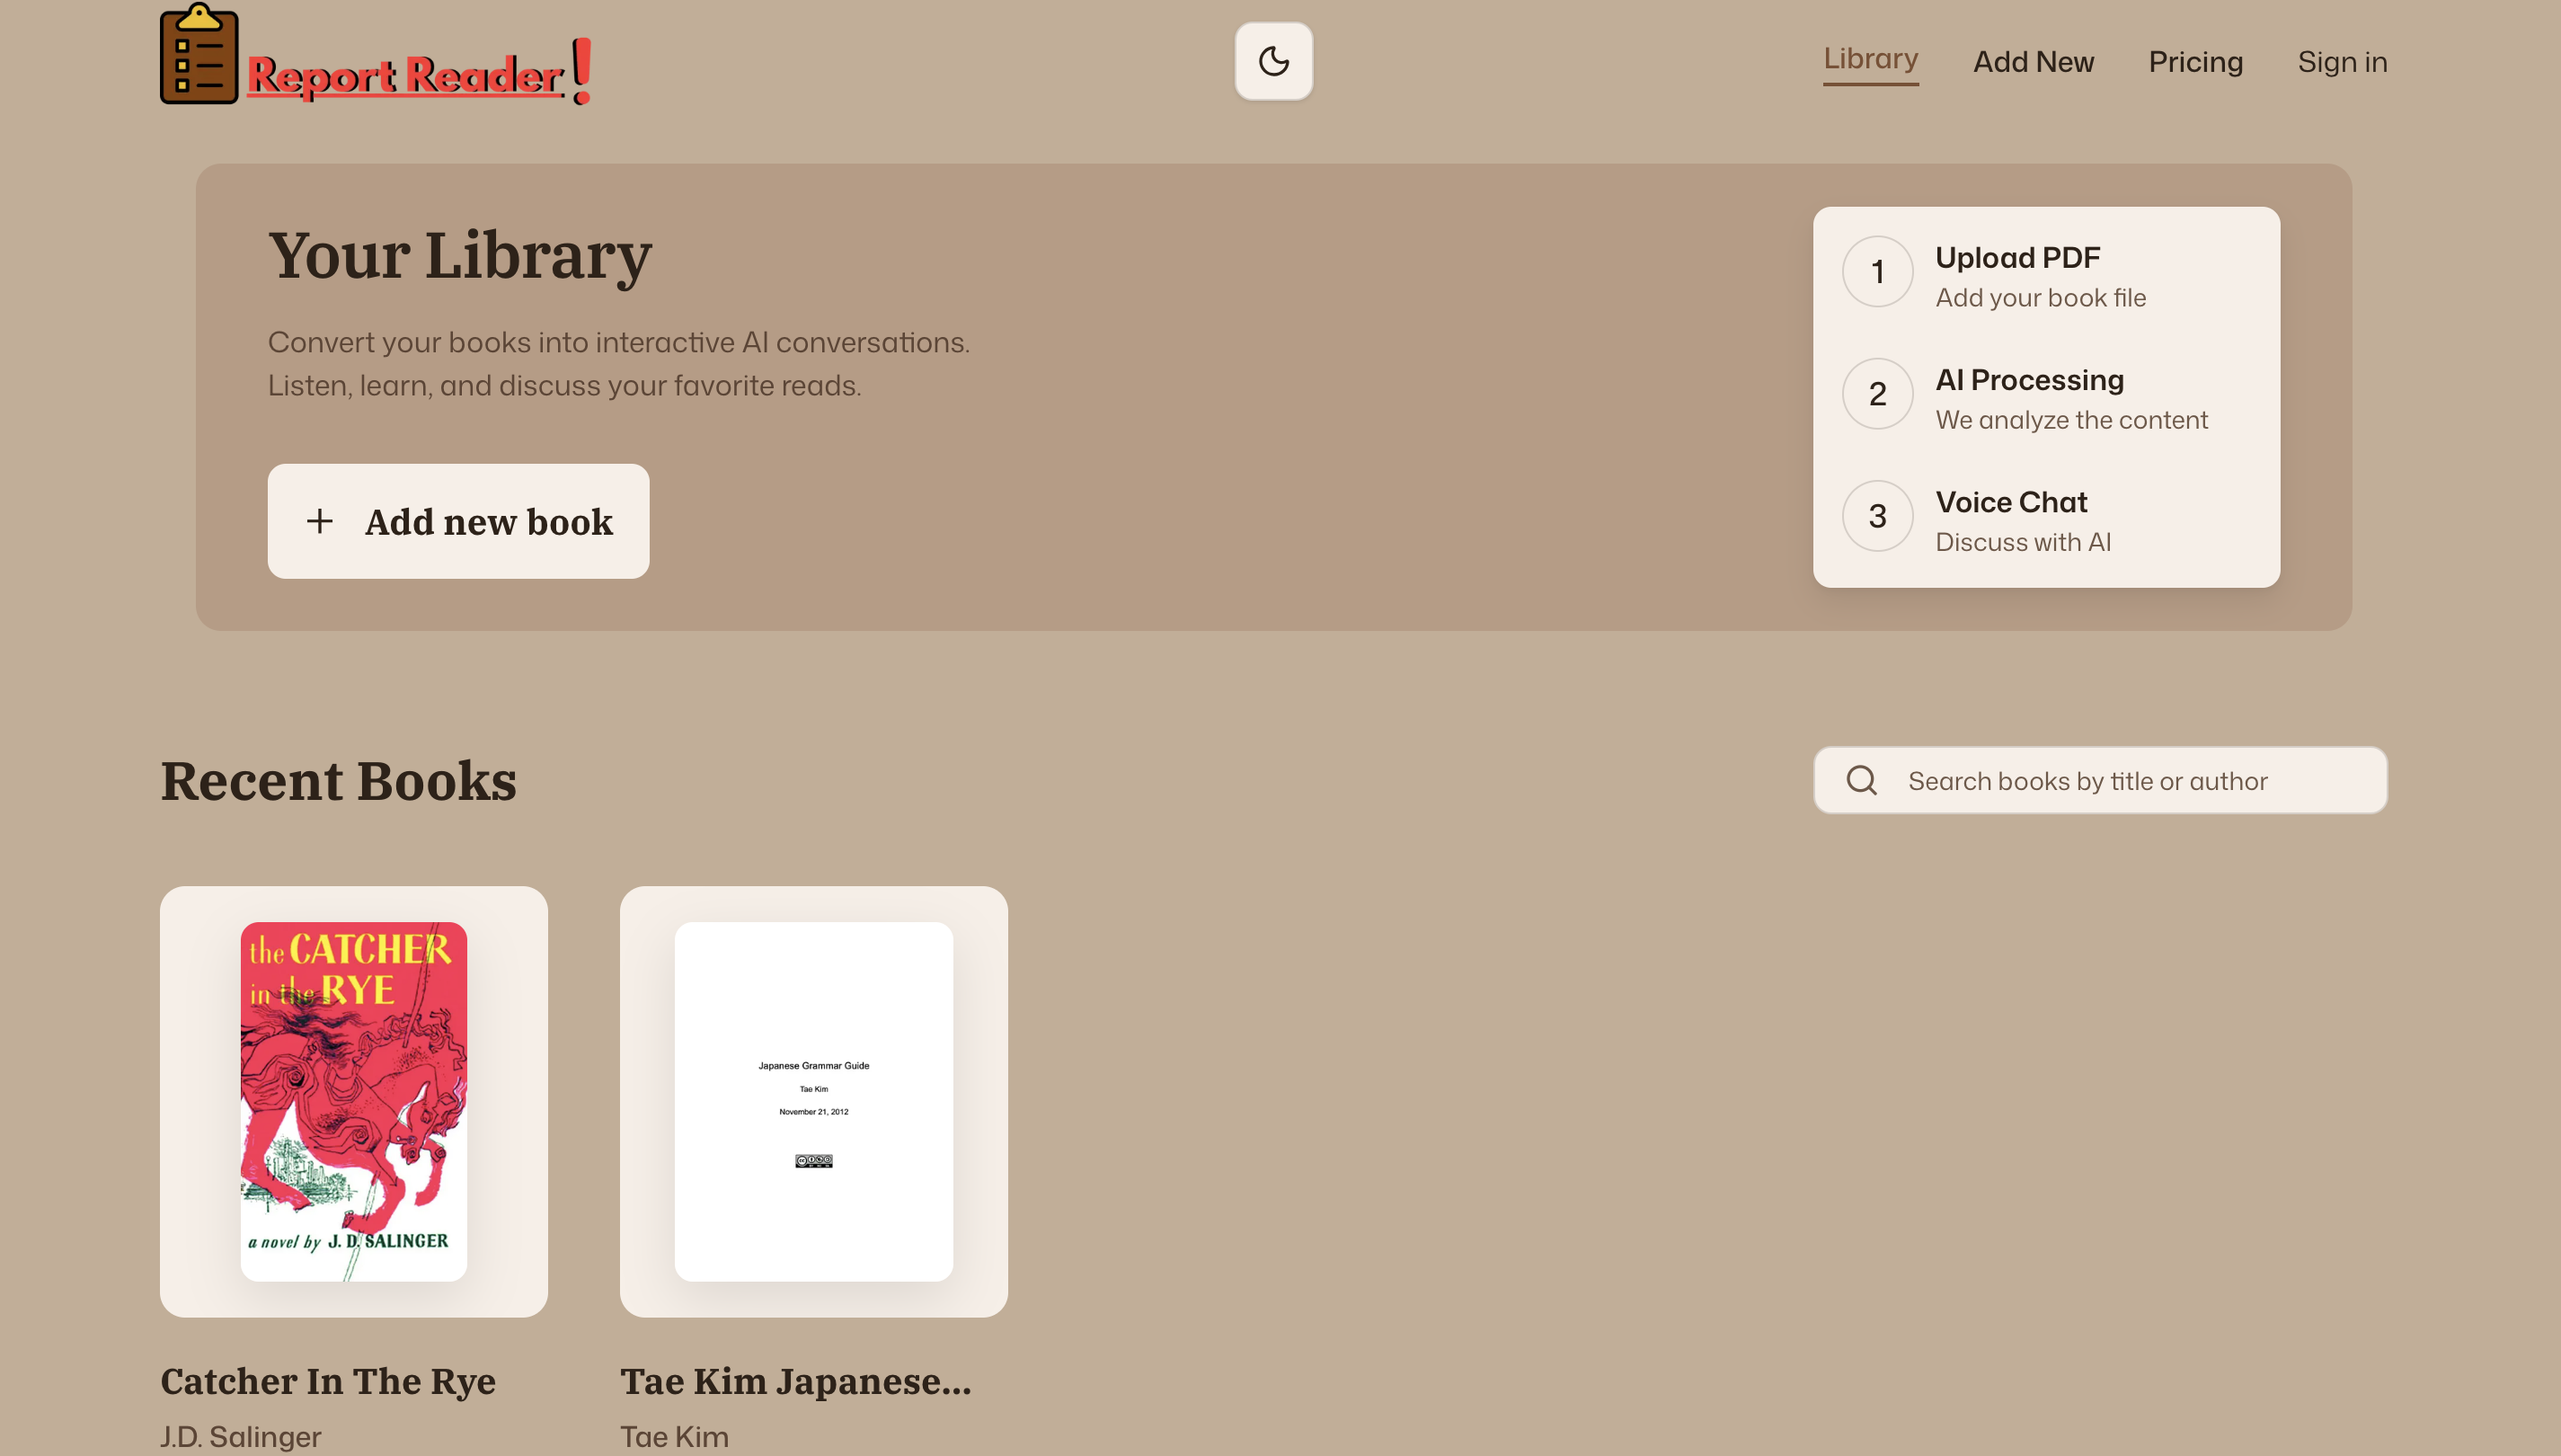
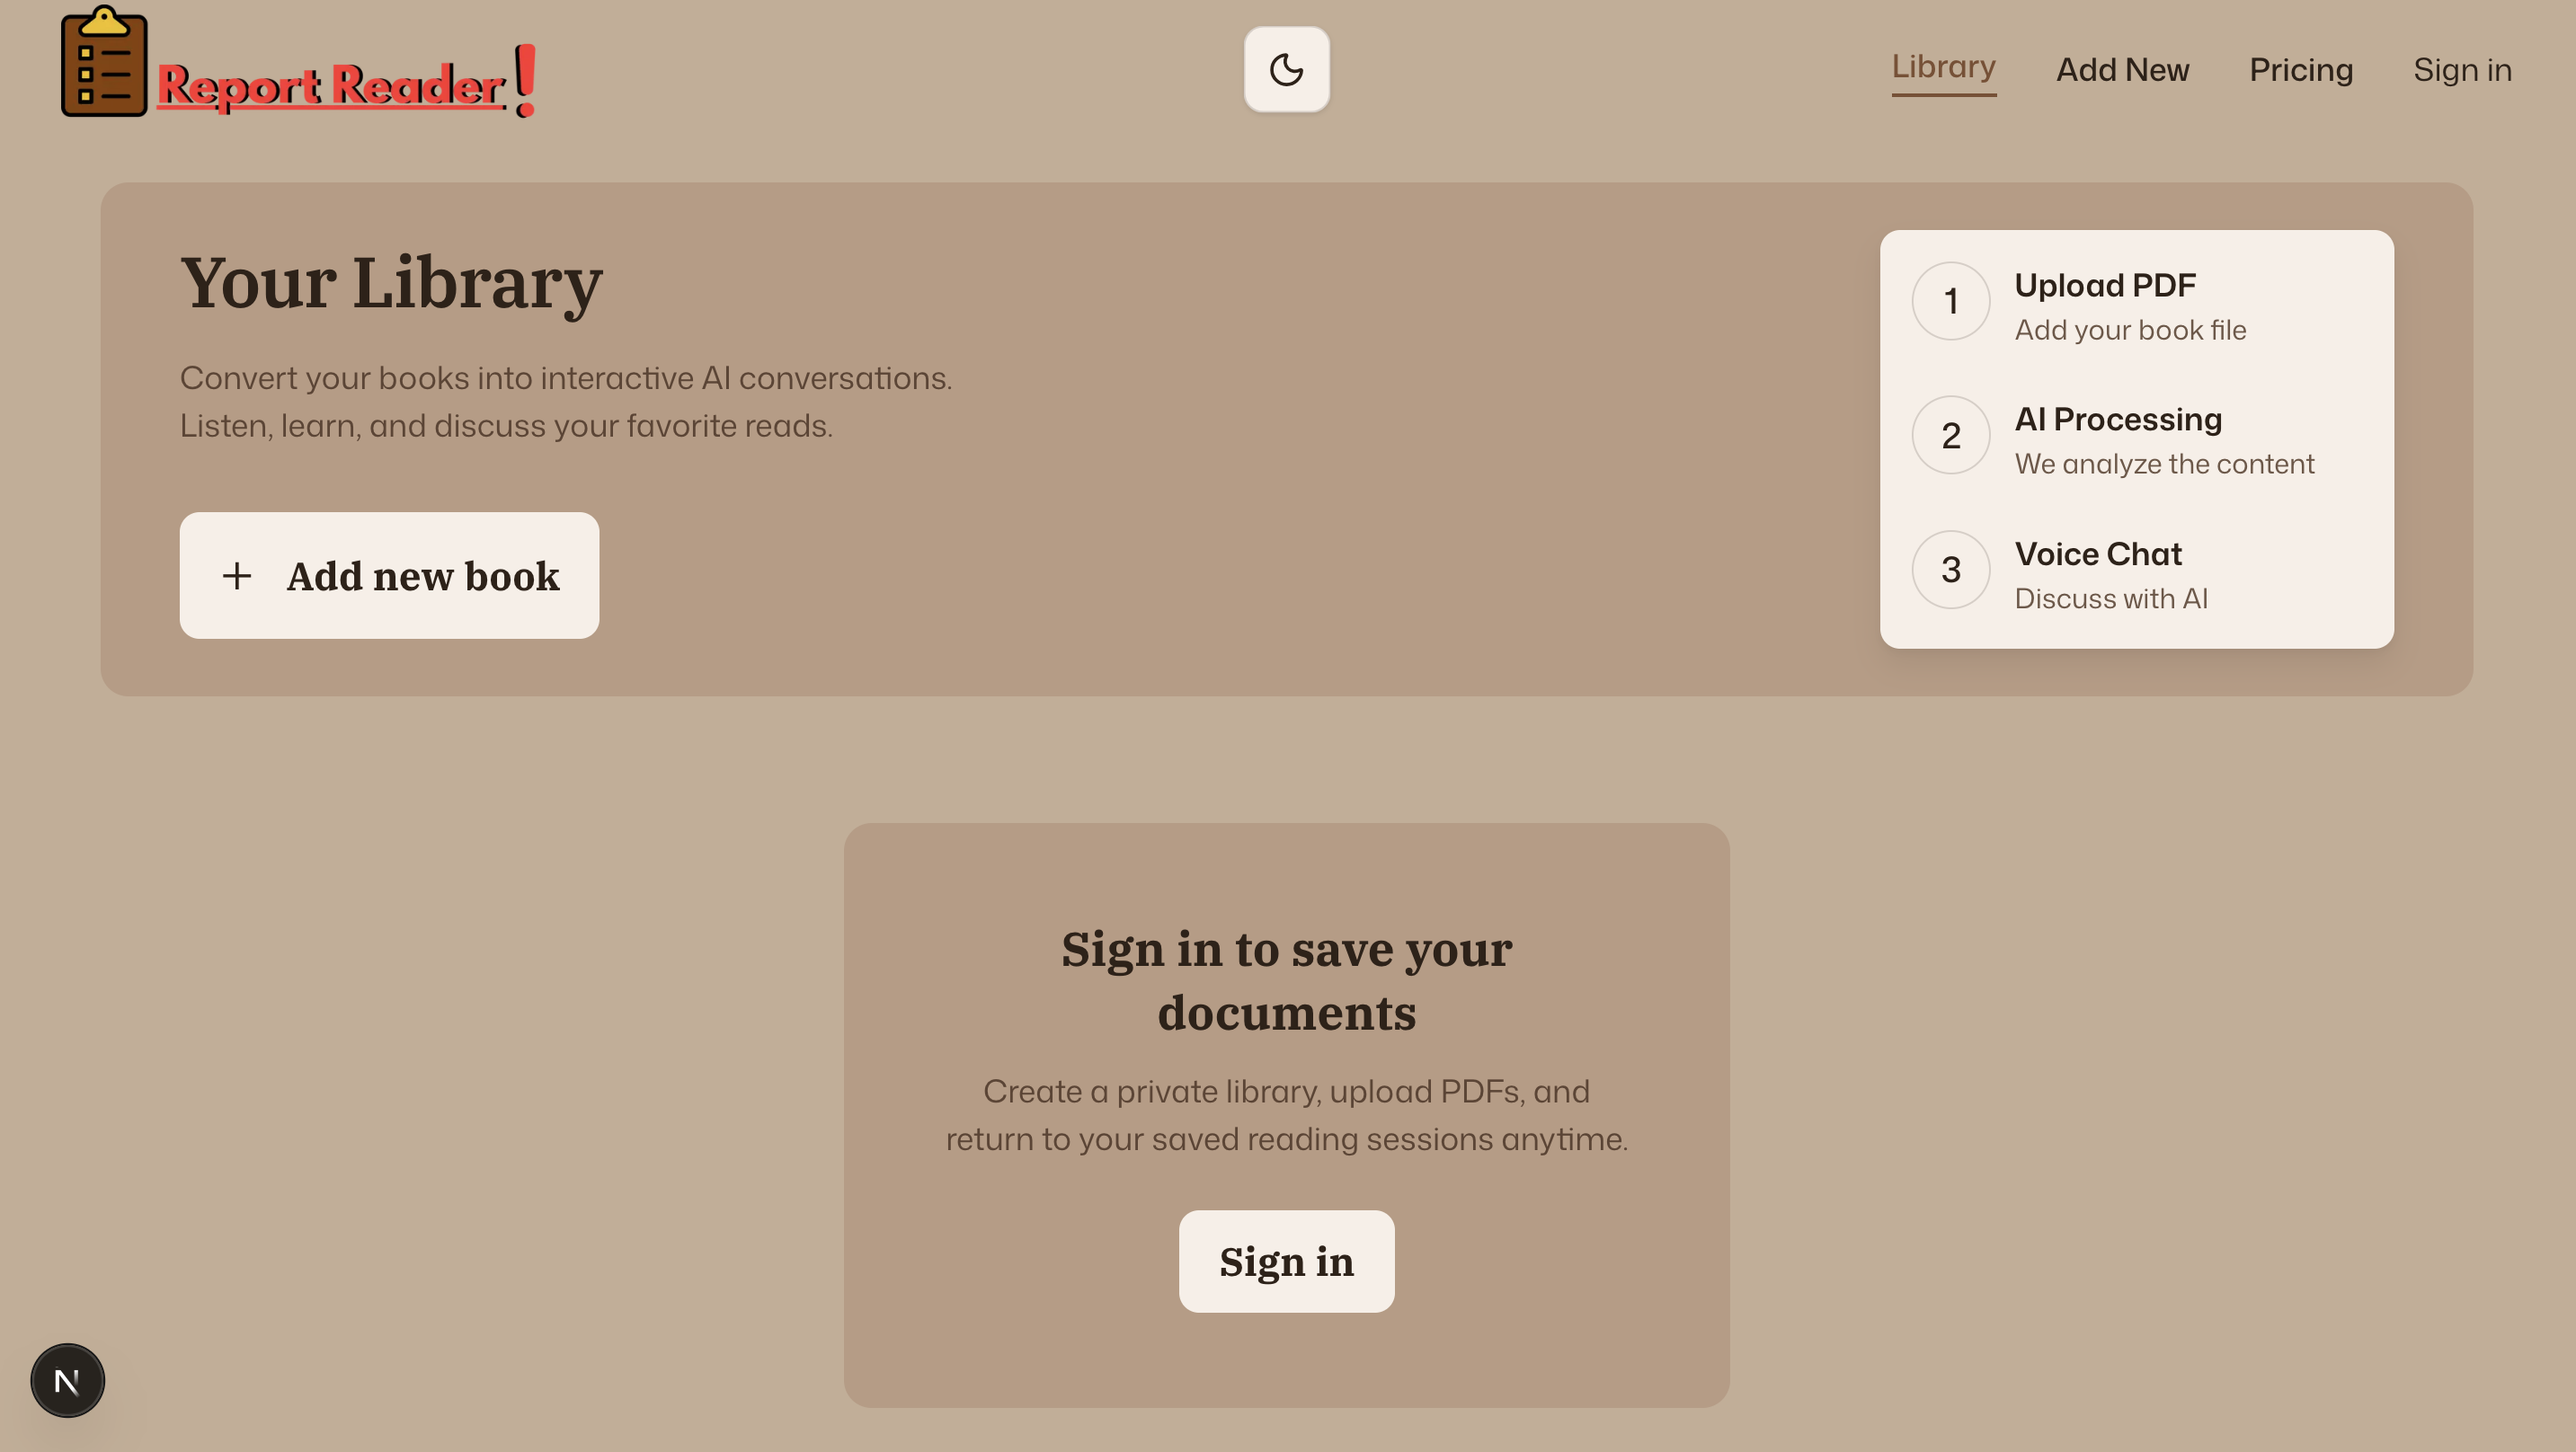
sign in button added

diff --git a/lib/actions/book.actions.ts b/lib/actions/book.actions.ts
@@ -6,22 +6,30 @@ import {escapeRegex, generateSlug, serializeData} from "@/lib/utils";
 import Book from "@/database/models/book.model";
 import BookSegment from "@/database/models/book-segment.model";
 import mongoose from "mongoose";
+import {auth} from "@clerk/nextjs/server";
 
 export const getAllBooks = async (search?: string) => {
     try {
+        const { userId } = await auth();
+
+        if (!userId) {
+            return {
+                success: true,
+                data: [],
+            };
+        }
+
         await connectToDatabase();
 
-        let query = {};
+        const query: Record<string, unknown> = { clerkId: userId };
 
         if (search) {
             const escapedSearch = escapeRegex(search);
             const regex = new RegExp(escapedSearch, 'i');
-            query = {
-                $or: [
-                    { title: { $regex: regex } },
-                    { author: { $regex: regex } },
-                ]
-            };
+            query.$or = [
+                { title: { $regex: regex } },
+                { author: { $regex: regex } },
+            ];
         }
 
         const books = await Book.find(query).sort({ createdAt: -1 }).lean();
@@ -40,11 +48,20 @@ export const getAllBooks = async (search?: string) => {
 
 export const checkBookExists = async (title: string) => {
     try {
+        const { userId } = await auth();
+
+        if (!userId) {
+            return {
+                exists: false,
+                error: "Unauthorized",
+            }
+        }
+
         await connectToDatabase();
 
         const slug = generateSlug(title);
 
-        const existingBook = await Book.findOne({slug}).lean();
+        const existingBook = await Book.findOne({ slug, clerkId: userId }).lean();
 
         if(existingBook) {
             return {
@@ -66,11 +83,17 @@ export const checkBookExists = async (title: string) => {
 
 export const createBook = async (data: CreateBook) => {
     try {
+        const { userId } = await auth();
+
+        if (!userId || userId !== data.clerkId) {
+            return { success: false, error: "Unauthorized" };
+        }
+
         await connectToDatabase();
 
         const slug = generateSlug(data.title);
 
-        const existingBook = await Book.findOne({slug}).lean();
+        const existingBook = await Book.findOne({ slug, clerkId: userId }).lean();
 
         if(existingBook) {
             return {
@@ -83,13 +106,6 @@ export const createBook = async (data: CreateBook) => {
         // Todo: Check subscription limits before creating a book
         const { getUserPlan } = await import("@/lib/subscription.server");
         const { PLAN_LIMITS } = await import("@/lib/subscription-constants");
-
-        const { auth } = await import("@clerk/nextjs/server");
-        const { userId } = await auth();
-
-        if (!userId || userId !== data.clerkId) {
-            return { success: false, error: "Unauthorized" };
-        }
 
         const plan = await getUserPlan();
         const limits = PLAN_LIMITS[plan];
@@ -125,9 +141,15 @@ export const createBook = async (data: CreateBook) => {
 
 export const getBookBySlug = async (slug: string) => {
     try {
+        const { userId } = await auth();
+
+        if (!userId) {
+            return { success: false, error: 'Unauthorized' };
+        }
+
         await connectToDatabase();
 
-        const book = await Book.findOne({ slug }).lean();
+        const book = await Book.findOne({ slug, clerkId: userId }).lean();
 
         if (!book) {
             return { success: false, error: 'Book not found' };
@@ -147,17 +169,29 @@ export const getBookBySlug = async (slug: string) => {
 
 export const saveBookSegments = async (bookId: string, clerkId: string, segments: TextSegment[]) => {
     try {
+        const { userId } = await auth();
+
+        if (!userId || userId !== clerkId) {
+            return { success: false, error: 'Unauthorized' };
+        }
+
         await connectToDatabase();
+
+        const book = await Book.findOne({ _id: bookId, clerkId: userId }).lean();
+
+        if (!book) {
+            return { success: false, error: 'Book not found' };
+        }
 
         console.log('Saving book segments...');
 
         const segmentsToInsert = segments.map(({ text, segmentIndex, pageNumber, wordCount }) => ({
-            clerkId, bookId, content: text, segmentIndex, pageNumber, wordCount
+            clerkId: userId, bookId, content: text, segmentIndex, pageNumber, wordCount
         }));
 
         await BookSegment.insertMany(segmentsToInsert);
 
-        await Book.findByIdAndUpdate(bookId, { totalSegments: segments.length });
+        await Book.findOneAndUpdate({ _id: bookId, clerkId: userId }, { totalSegments: segments.length });
 
         console.log('Book segments saved successfully.');
 

diff --git a/app/(root)/page.tsx b/app/(root)/page.tsx
@@ -3,27 +3,44 @@ import HeroSection from "@/components/HeroSection";
 import BookCard from "@/components/BookCard";
 import {getAllBooks} from "@/lib/actions/book.actions";
 import Search from "@/components/Search";
+import {auth} from "@clerk/nextjs/server";
+import SignInCtaButton from "@/components/SignInCtaButton";
 
 const Page = async ({ searchParams }: { searchParams: Promise<{ query?: string }> }) => {
     const { query } = await searchParams;
+    const { userId } = await auth();
 
-    const bookResults = await getAllBooks(query)
+    const bookResults = userId ? await getAllBooks(query) : { success: true, data: [] }
     const books = bookResults.success ? bookResults.data ?? [] : []
 
     return (
         <main className="wrapper container">
             <HeroSection />
 
-            <div className="flex flex-col sm:flex-row sm:items-center justify-between gap-5 mb-10">
-                <h2 className="text-3xl font-serif font-bold text-[var(--text-primary)] dark:text-slate-100">Recent Books</h2>
-                <Search />
-            </div>
+            {userId ? (
+                <>
+                    <div className="flex flex-col sm:flex-row sm:items-center justify-between gap-5 mb-10">
+                        <h2 className="text-3xl font-serif font-bold text-[var(--text-primary)] dark:text-slate-100">Recent Books</h2>
+                        <Search />
+                    </div>
 
-            <div className="library-books-grid">
-                {books.map((book) => (
-                    <BookCard key={book._id} title={book.title} author={book.author} coverURL={book.coverURL} slug={book.slug} />
-                ))}
-            </div>
+                    <div className="library-books-grid">
+                        {books.map((book) => (
+                            <BookCard key={book._id} title={book.title} author={book.author} coverURL={book.coverURL} slug={book.slug} />
+                        ))}
+                    </div>
+                </>
+            ) : (
+                <section className="library-empty-card text-center">
+                    <h2 className="text-2xl font-serif font-bold text-[var(--text-primary)] dark:text-slate-100">
+                        Sign in to save your documents
+                    </h2>
+                    <p className="mt-3 text-base text-[var(--text-secondary)] dark:text-slate-400">
+                        Create a private library, upload PDFs, and return to your saved reading sessions anytime.
+                    </p>
+                    <SignInCtaButton />
+                </section>
+            )}
         </main>
     )
 }

diff --git a/lib/actions/session.actions.ts b/lib/actions/session.actions.ts
@@ -3,11 +3,24 @@
 import {EndSessionResult, StartSessionResult} from "@/types";
 import {connectToDatabase} from "@/database/mongoose";
 import VoiceSession from "@/database/models/voice-session.model";
-import {getCurrentBillingPeriodStart} from "@/lib/subscription-constants";
+import Book from "@/database/models/book.model";
+import {auth} from "@clerk/nextjs/server";
 
 export const startVoiceSession = async (clerkId: string, bookId: string): Promise<StartSessionResult> => {
     try {
+        const { userId } = await auth();
+
+        if (!userId || userId !== clerkId) {
+            return { success: false, error: 'Unauthorized' };
+        }
+
         await connectToDatabase();
+
+        const book = await Book.findOne({ _id: bookId, clerkId: userId }).lean();
+
+        if (!book) {
+            return { success: false, error: 'Book not found.' };
+        }
 
         // Limits/Plan to see whether a session is allowed.
         const { getUserPlan } = await import("@/lib/subscription.server");
@@ -18,7 +31,7 @@ export const startVoiceSession = async (clerkId: string, bookId: string): Promis
         const billingPeriodStart = getCurrentBillingPeriodStart();
 
         const sessionCount = await VoiceSession.countDocuments({
-            clerkId,
+            clerkId: userId,
             billingPeriodStart
         });
 
@@ -34,7 +47,7 @@ export const startVoiceSession = async (clerkId: string, bookId: string): Promis
         }
 
         const session = await VoiceSession.create({
-            clerkId,
+            clerkId: userId,
             bookId,
             startedAt: new Date(),
             billingPeriodStart,
@@ -54,9 +67,15 @@ export const startVoiceSession = async (clerkId: string, bookId: string): Promis
 
 export const endVoiceSession = async (sessionId: string, durationSeconds: number): Promise<EndSessionResult> => {
     try {
+        const { userId } = await auth();
+
+        if (!userId) {
+            return { success: false, error: 'Unauthorized' };
+        }
+
         await connectToDatabase();
 
-        const result = await VoiceSession.findByIdAndUpdate(sessionId, {
+        const result = await VoiceSession.findOneAndUpdate({ _id: sessionId, clerkId: userId }, {
             endedAt: new Date(),
             durationSeconds,
         });

diff --git a/components/SignInCtaButton.tsx b/components/SignInCtaButton.tsx
@@ -1,0 +1,15 @@
+'use client';
+
+import { SignInButton } from "@clerk/nextjs";
+
+const SignInCtaButton = () => {
+    return (
+        <SignInButton mode="modal">
+            <button type="button" className="library-cta-primary mt-6 inline-flex items-center justify-center">
+                <span className="text-[var(--text-primary)] dark:text-slate-100">Sign in</span>
+            </button>
+        </SignInButton>
+    )
+}
+
+export default SignInCtaButton
